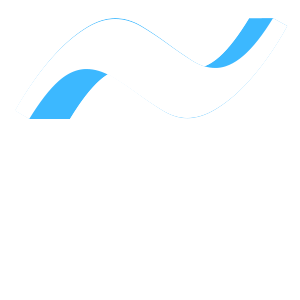
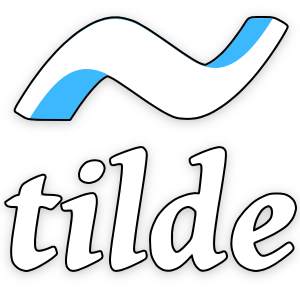
Fixed readme header image in light mode UI

diff --git a/README.md b/README.md
@@ -1,5 +1,5 @@
 <p align="center">
-    <a href="#Features">
+    <a href="#-quickstart">
       <img src="/Docs/tilde_title.png">
     </a>
 </p>
